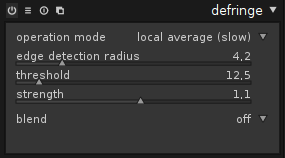
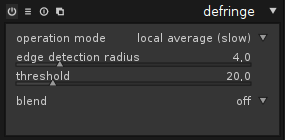
defringe tuning: remove strength slider + tune threshold & radius settings + picture for usermanual w/o strength slider

diff --git a/src/iop/defringe.c b/src/iop/defringe.c
@@ -44,7 +44,6 @@ typedef struct dt_iop_defringe_params_t
   float radius;
   float thresh;
   dt_iop_defringe_mode_t op_mode;
-  float strength;
 }
 dt_iop_defringe_params_t;
 
@@ -56,7 +55,6 @@ typedef struct dt_iop_defringe_gui_data_t
   GtkWidget *mode_select;
   GtkWidget *radius_scale;
   GtkWidget *thresh_scale;
-  GtkWidget *strength_scale;
 }
 dt_iop_defringe_gui_data_t;
 
@@ -155,7 +153,6 @@ void process (struct dt_iop_module_t *module, dt_dev_pixelpipe_iop_t *piece, voi
   const int ch = piece->colors;
 
   const int radius = ceil(2.0*ceilf(sigma));
-  const float base_strength = fmax(0.1f, d->strength);
 
   // save the fibonacci lattices in them later
   int * xy_avg = NULL;
@@ -185,7 +182,7 @@ void process (struct dt_iop_module_t *module, dt_dev_pixelpipe_iop_t *piece, voi
   // Pre-Compute Fibonacci Lattices
   int *tmp;
 
-  int samples_wish = radius*radius*0.8;
+  int samples_wish = radius*radius;
   int sampleidx_avg;
   // select samples by fibonacci number
   if (samples_wish > 89) {
@@ -204,8 +201,8 @@ void process (struct dt_iop_module_t *module, dt_dev_pixelpipe_iop_t *piece, voi
   const int sampleidx_small = sampleidx_avg-1;
 
   // smaller area for artifact filter
-  const int radius_artifact_filter = radius/2;
-  const int local_radius = radius*10.0;
+  const int small_radius = MAX(radius, 3);
+  const int local_radius = 24 + radius*4;
 
   const int samples_small = fib[sampleidx_small];
   const int samples_avg = fib[sampleidx_avg];
@@ -235,7 +232,7 @@ void process (struct dt_iop_module_t *module, dt_dev_pixelpipe_iop_t *piece, voi
     for (int u=0; u < samples_small; u++)
     {
       int dx,dy;
-      fib_latt(&dx,&dy,radius,u,sampleidx_small);
+      fib_latt(&dx,&dy,small_radius,u,sampleidx_small);
       *tmp++ = dx;
       *tmp++ = dy;
     }
@@ -252,7 +249,7 @@ void process (struct dt_iop_module_t *module, dt_dev_pixelpipe_iop_t *piece, voi
     for (int u=0; u < samples_artifact; u++)
     {
       int dx,dy;
-      fib_latt(&dx,&dy,radius_artifact_filter,u,sampleidx_small);
+      fib_latt(&dx,&dy,small_radius,u,sampleidx_small);
       *tmp++ = dx;
       *tmp++ = dy;
     }
@@ -278,9 +275,9 @@ void process (struct dt_iop_module_t *module, dt_dev_pixelpipe_iop_t *piece, voi
       float edge = (a*a+b*b); //range up to 2*(256)^2 -> approx. 0 to 131072
 
       // save local edge chroma in out[.. +3] , this is later compared with threshold
-      out[(size_t)v*width*ch + t*ch +3] = edge * base_strength * base_strength;
+      out[(size_t)v*width*ch + t*ch +3] = edge;
       // the average chroma of the edge-layer in the roi
-      if (MODE_GLOBAL_AVERAGE == d->op_mode) avg_edge_chroma += edge * base_strength;
+      if (MODE_GLOBAL_AVERAGE == d->op_mode) avg_edge_chroma += edge;
     }
   }
 
@@ -288,7 +285,7 @@ void process (struct dt_iop_module_t *module, dt_dev_pixelpipe_iop_t *piece, voi
   if (MODE_GLOBAL_AVERAGE == d->op_mode)
   {
     avg_edge_chroma = avg_edge_chroma / (width * height) + 10.0*FLT_EPSILON;
-    thresh = fmax(0.1f, 8.0 * d->thresh * avg_edge_chroma / MAGIC_THRESHOLD_COEFF);
+    thresh = fmax(0.1f, 4.0 * d->thresh * avg_edge_chroma / MAGIC_THRESHOLD_COEFF);
   }
   else
   {
@@ -322,8 +319,7 @@ void process (struct dt_iop_module_t *module, dt_dev_pixelpipe_iop_t *piece, voi
         }
         local_avg /= (float)samples_avg;
         avg_edge_chroma = local_avg;
-        float new_thresh = fmax(0.1f, 8.0 * d->thresh * avg_edge_chroma / MAGIC_THRESHOLD_COEFF);
-        local_thresh = new_thresh;
+        local_thresh = fmax(0.1f, 4.0 * d->thresh * avg_edge_chroma / MAGIC_THRESHOLD_COEFF);
       }
 
       if (out[(size_t)v*width*ch +t*ch +3] > local_thresh)
@@ -362,14 +358,14 @@ void process (struct dt_iop_module_t *module, dt_dev_pixelpipe_iop_t *piece, voi
       }
       // "artifact reduction filter": iterate also over neighbours of pixel over threshold
       // reducing artifacts could still be better, especially for fringe with a thickness of more than 2 pixels
-      else if ( out[(size_t)MAX(0,(v-1))*width*ch +MAX(0,(t-1))*ch +3] > thresh
-                || out[(size_t)MAX(0,(v-1))*width*ch +t*ch +3] > thresh
-                || out[(size_t)MAX(0,(v-1))*width*ch +MIN(width-1,(t+1))*ch +3] > thresh
-                || out[(size_t)v*width*ch +MAX(0,(t-1))*ch +3] > thresh
-                || out[(size_t)v*width*ch +MIN(width-1,(t+1))*ch +3] > thresh
-                || out[(size_t)MIN(height-1,(v+1))*width*ch +MAX(0,(t-1))*ch +3] > thresh
-                || out[(size_t)MIN(height-1,(v+1))*width*ch +t*ch +3] > thresh
-                || out[(size_t)MIN(height-1,(v+1))*width*ch +MIN(width-1,(t+1))*ch +3] > thresh )
+      else if ( out[(size_t)MAX(0,(v-1))*width*ch +MAX(0,(t-1))*ch +3] > local_thresh
+                || out[(size_t)MAX(0,(v-1))*width*ch +t*ch +3] > local_thresh
+                || out[(size_t)MAX(0,(v-1))*width*ch +MIN(width-1,(t+1))*ch +3] > local_thresh
+                || out[(size_t)v*width*ch +MAX(0,(t-1))*ch +3] > local_thresh
+                || out[(size_t)v*width*ch +MIN(width-1,(t+1))*ch +3] > local_thresh
+                || out[(size_t)MIN(height-1,(v+1))*width*ch +MAX(0,(t-1))*ch +3] > local_thresh
+                || out[(size_t)MIN(height-1,(v+1))*width*ch +t*ch +3] > local_thresh
+                || out[(size_t)MIN(height-1,(v+1))*width*ch +MIN(width-1,(t+1))*ch +3] > local_thresh )
       {
         float atot=0, btot=0;
         float norm=0;
@@ -423,8 +419,7 @@ void reload_defaults(dt_iop_module_t *module)
 {
   module->default_enabled = 0;
   ((dt_iop_defringe_params_t *)module->default_params)->radius = 4.0;
-  ((dt_iop_defringe_params_t *)module->default_params)->thresh = 10;
-  ((dt_iop_defringe_params_t *)module->default_params)->strength = 1.0;
+  ((dt_iop_defringe_params_t *)module->default_params)->thresh = 20.0;
   ((dt_iop_defringe_params_t *)module->default_params)->op_mode = MODE_GLOBAL_AVERAGE;
   memcpy(module->params, module->default_params, sizeof(dt_iop_defringe_params_t));
 }
@@ -466,15 +461,6 @@ thresh_slider_callback (GtkWidget *w, dt_iop_module_t *module)
 }
 
 static void
-strength_slider_callback (GtkWidget *w, dt_iop_module_t *module)
-{
-  if(darktable.gui->reset) return;
-  dt_iop_defringe_params_t *p = (dt_iop_defringe_params_t *)module->params;
-  p->strength = dt_bauhaus_slider_get(w);
-  dt_dev_add_history_item(darktable.develop, module, TRUE);
-}
-
-static void
 mode_callback (GtkWidget *w, dt_iop_module_t *module)
 {
   dt_iop_defringe_params_t *p = (dt_iop_defringe_params_t *)module->params;
@@ -504,29 +490,21 @@ void gui_init (dt_iop_module_t *module)
   g->radius_scale = dt_bauhaus_slider_new_with_range(module, 0.5, 20.0, 0.1, p->radius, 1);
   dt_bauhaus_widget_set_label(g->radius_scale, NULL, _("edge detection radius"));
 
-  g->thresh_scale = dt_bauhaus_slider_new_with_range(module, 1.0, 128.0, 0.1, p->thresh, 1);
+  g->thresh_scale = dt_bauhaus_slider_new_with_range(module, 0.5, 128.0, 0.1, p->thresh, 1);
   dt_bauhaus_widget_set_label(g->thresh_scale, NULL, _("threshold"));
-
-  g->strength_scale = dt_bauhaus_slider_new_with_range(module, 0.1, 2.0, 0.1, p->strength, 1);
-  dt_bauhaus_widget_set_label(g->strength_scale, NULL, _("strength"));
 
   gtk_box_pack_start(GTK_BOX(module->widget), GTK_WIDGET(g->radius_scale), TRUE, TRUE, 0);
   gtk_box_pack_start(GTK_BOX(module->widget), GTK_WIDGET(g->thresh_scale), TRUE, TRUE, 0);
-  gtk_box_pack_start(GTK_BOX(module->widget), GTK_WIDGET(g->strength_scale), TRUE, TRUE, 0);
 
   g_object_set(G_OBJECT(g->radius_scale), "tooltip-text",
                _("radius for detecting fringe"), (char *)NULL);
   g_object_set(G_OBJECT(g->thresh_scale), "tooltip-text",
                _("threshold for defringe, higher values mean less defringing"), (char *)NULL);
-  g_object_set(G_OBJECT(g->thresh_scale), "tooltip-text",
-               _("strength, will affect how strong edges are biased"), (char *)NULL);
 
   g_signal_connect(G_OBJECT(g->radius_scale), "value-changed",
                    G_CALLBACK(radius_slider_callback), module);
   g_signal_connect(G_OBJECT(g->thresh_scale), "value-changed",
                    G_CALLBACK(thresh_slider_callback), module);
-  g_signal_connect(G_OBJECT(g->strength_scale), "value-changed",
-                   G_CALLBACK(strength_slider_callback), module);
 }
 
 void gui_update (dt_iop_module_t *module)
@@ -536,7 +514,6 @@ void gui_update (dt_iop_module_t *module)
   dt_bauhaus_combobox_set(g->mode_select, p->op_mode);
   dt_bauhaus_slider_set(g->radius_scale, p->radius);
   dt_bauhaus_slider_set(g->thresh_scale, p->thresh);
-  dt_bauhaus_slider_set(g->strength_scale, p->strength);
 }
 
 void gui_cleanup (dt_iop_module_t *module)
